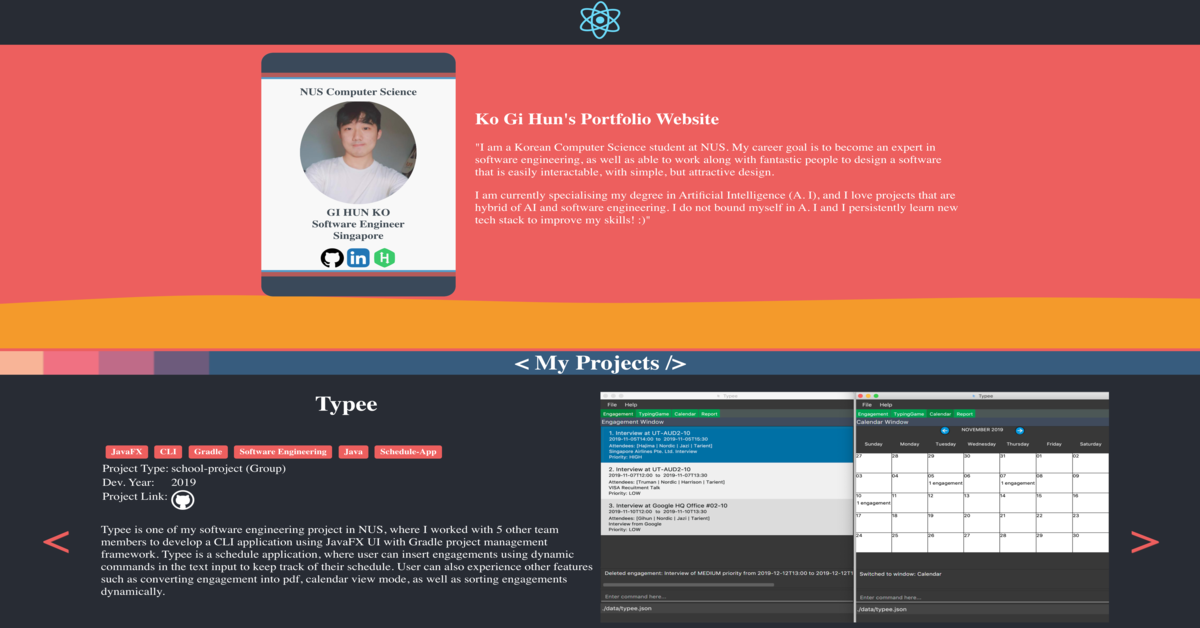
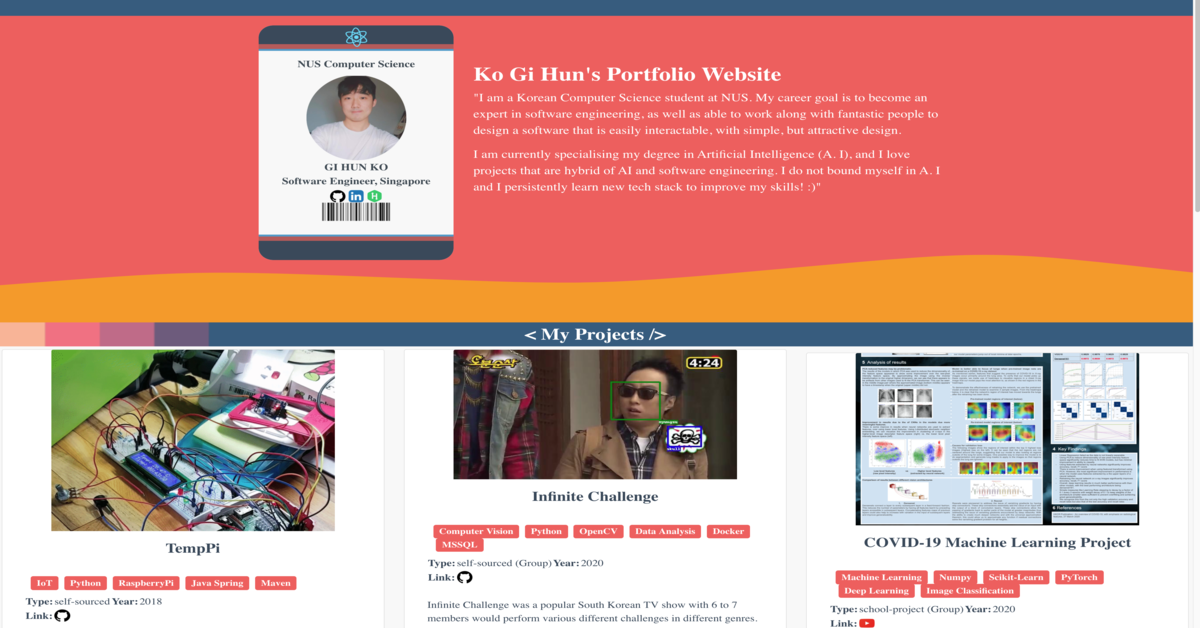
removed card images and replaced them with loading from gdrive

diff --git a/client/src/components/CardComponent.js b/client/src/components/CardComponent.js
@@ -13,19 +13,22 @@ export default class CardComponent extends Component {
     render() {
         return (
             <Card>
-                <Card.Img variant="top" src={this.props.medialink} alt="design" />
+                <Card.Img variant="top" src={'https://drive.google.com/uc?id=' + this.props.medialink} className="img-design-card" alt="design" />
                 <Card.Body>
                     <Card.Title><h3><b>{this.props.name}</b></h3></Card.Title>
                     <Card.Text>
                         <div className="desc">
                             <table>
                                 <tr>
-                                    <td><b>Organisation: </b></td>
-                                    <td>{this.props.org}</td> 
+                                    <td>
+                                        <b>Organisation: </b>
+                                        {this.props.org}
+                                        <b>Year: </b>
+                                        {this.props.year}
+                                    </td>
                                 </tr>
                                 <tr>
-                                    <td><b>Year: </b></td>
-                                    <td>{this.props.year}</td>
+                                    <td>{this.props.desc}</td>
                                 </tr>
                             </table>
                         </div>

diff --git a/client/src/App.js b/client/src/App.js
@@ -115,7 +115,13 @@ class App extends Component {
                 <CardColumns>
                   {this.state.designs.map((design) => {
                     return (
-                      <CardComponent medialink={design.medialink} name={design.name} desc={design.desc} org={design.organisation} year={design.year}/>
+                      <CardComponent 
+                      medialink={design.medialink} 
+                      name={design.name} 
+                      desc={design.desc} 
+                      org={design.organisation} 
+                      year={design.year}
+                      />
                     );
                   })}
                 </CardColumns>

diff --git a/client/src/components/ProjectCardComponent.js b/client/src/components/ProjectCardComponent.js
@@ -53,7 +53,7 @@ export default class ProjectCardComponent extends Component {
         return (
             <div class="project-card">
                 <Card>
-                    <Card.Img variant="top" src={this.props.medialink} />
+                    <Card.Img variant="top" src={'https://drive.google.com/uc?id=' + this.props.medialink} className="img-proj-card" />
                     <Card.Body>
                         <Card.Title><h3><b>{this.props.name}</b></h3></Card.Title>
                         <Card.Text>

diff --git a/client/src/App.css b/client/src/App.css
@@ -154,9 +154,12 @@ td img {
   margin: auto;
 }
 
-.img-design {
-  height: 27vh;
-  margin: auto;
+.img-proj-card {
+  width: 30rem;
+}
+
+.img-design-card {
+  width: 30rem;
 }
 
 .card {
